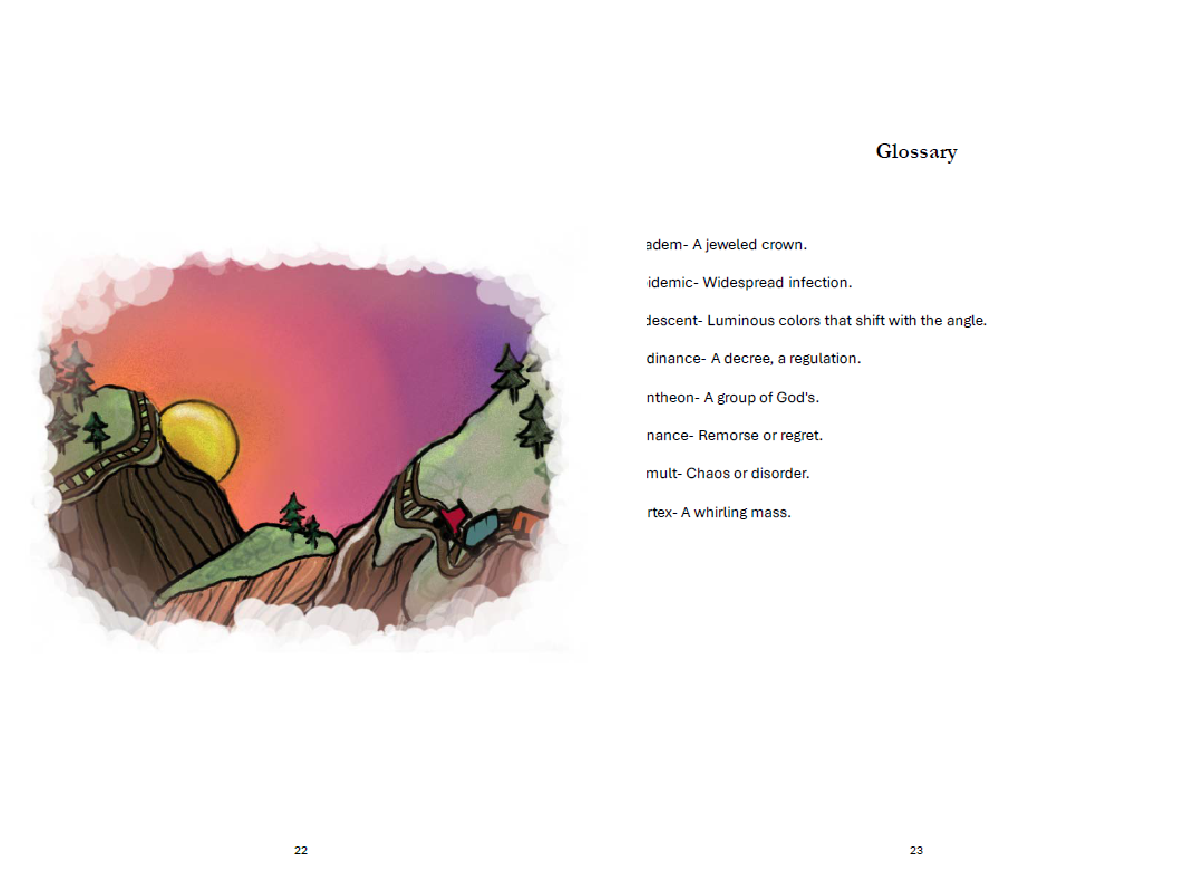
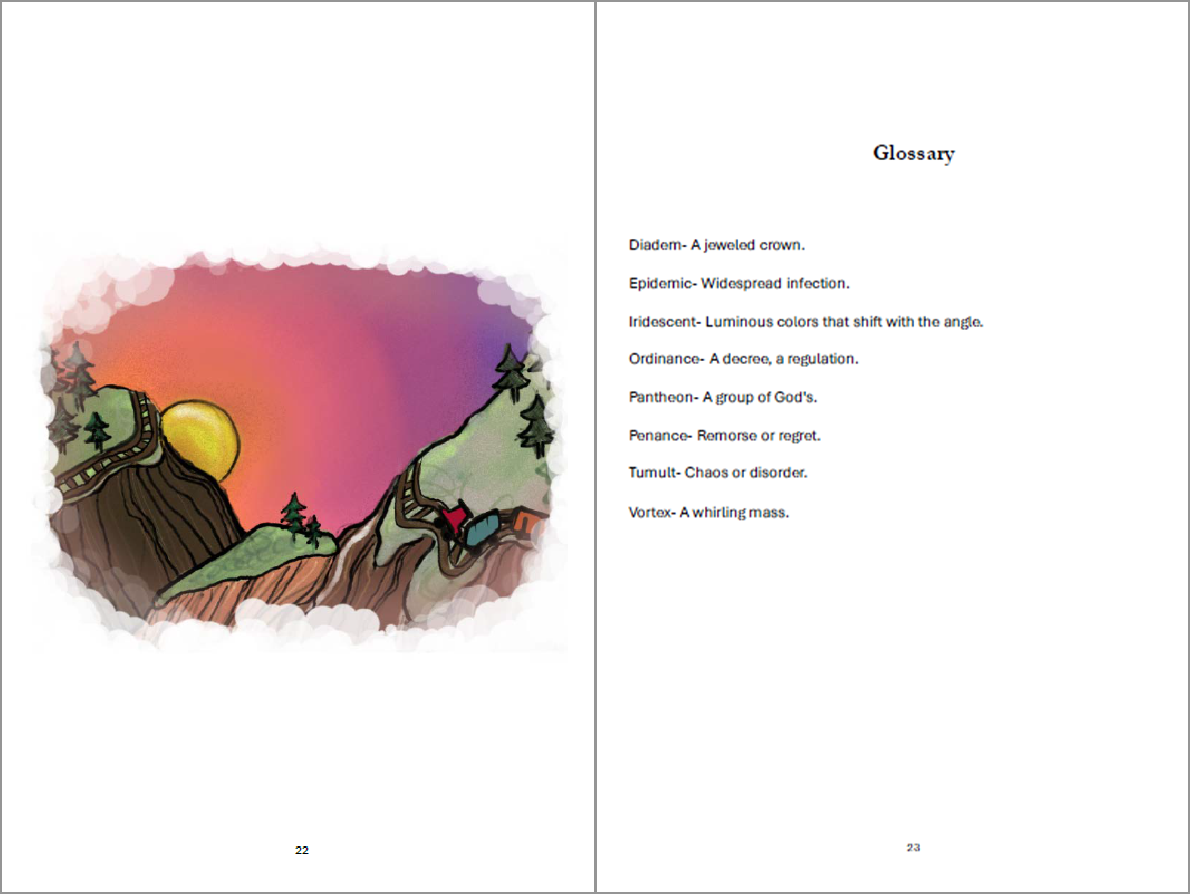
portfolio images replaces

diff --git a/pages/components/PortfolioSlider2.js b/pages/components/PortfolioSlider2.js
@@ -168,7 +168,7 @@ export default function PortfolioSlider2() {
                                 <img
                                     src={slide.src}
                                     alt={`Slide ${slide.id}`}
-                                    className=" w-auto object-contain h-100 w-100 glightbox2 cursor-pointer"
+                                    className=" w-auto object-contain h-100 w-100 glightbox2 cursor-pointer border border-slate-500"
                                 />
                             </div>
                         </SwiperSlide>
